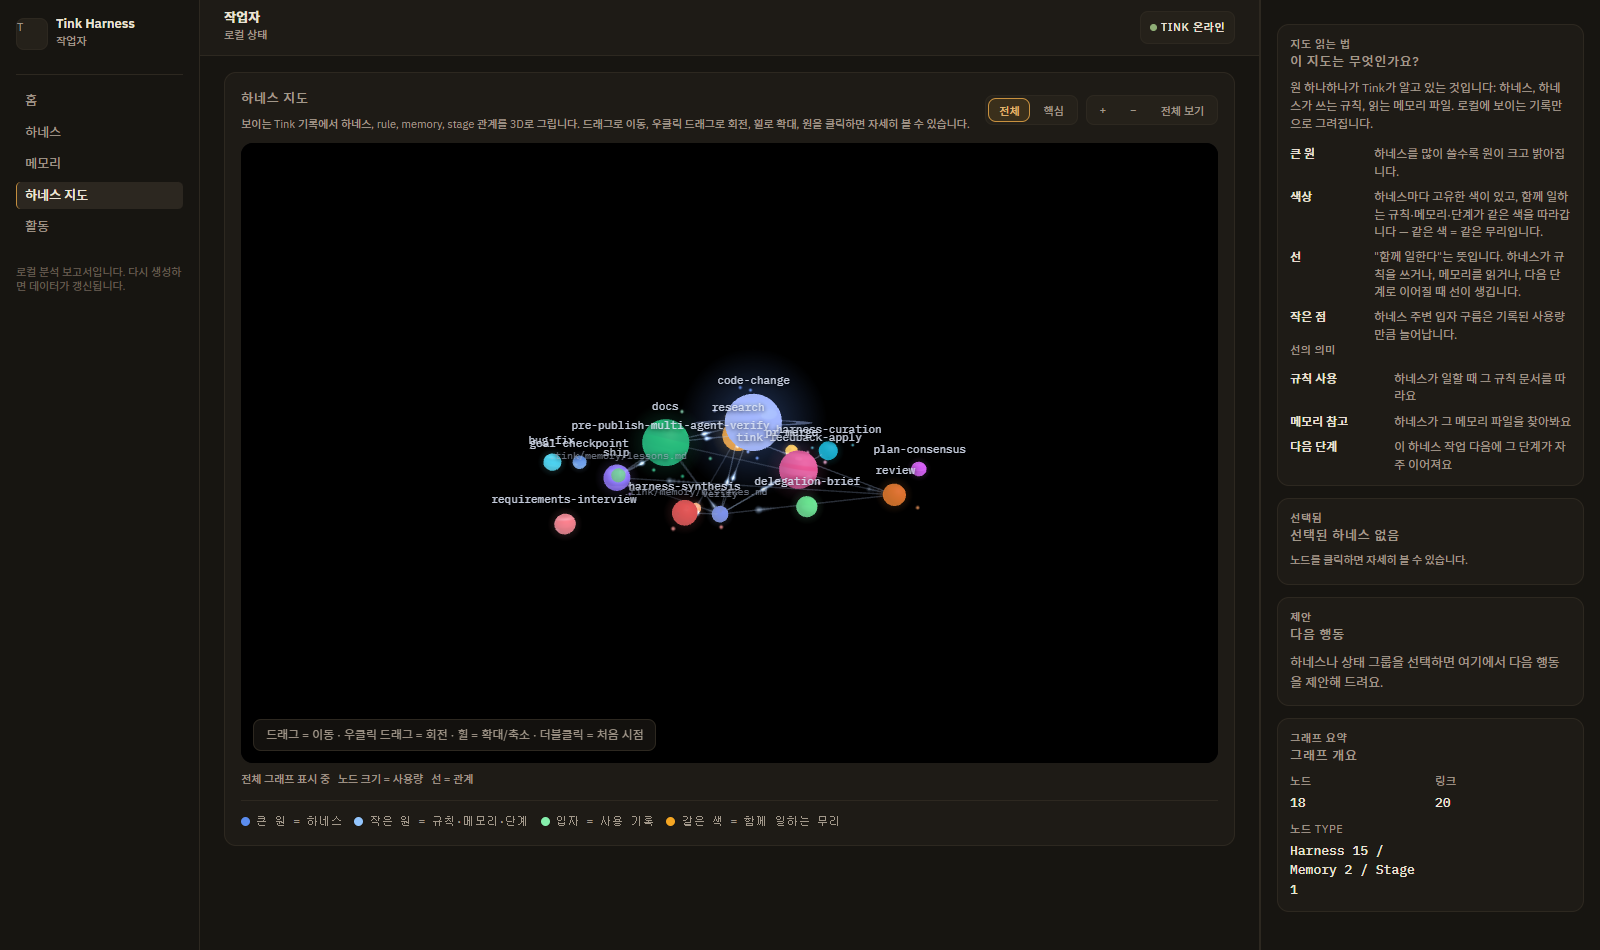
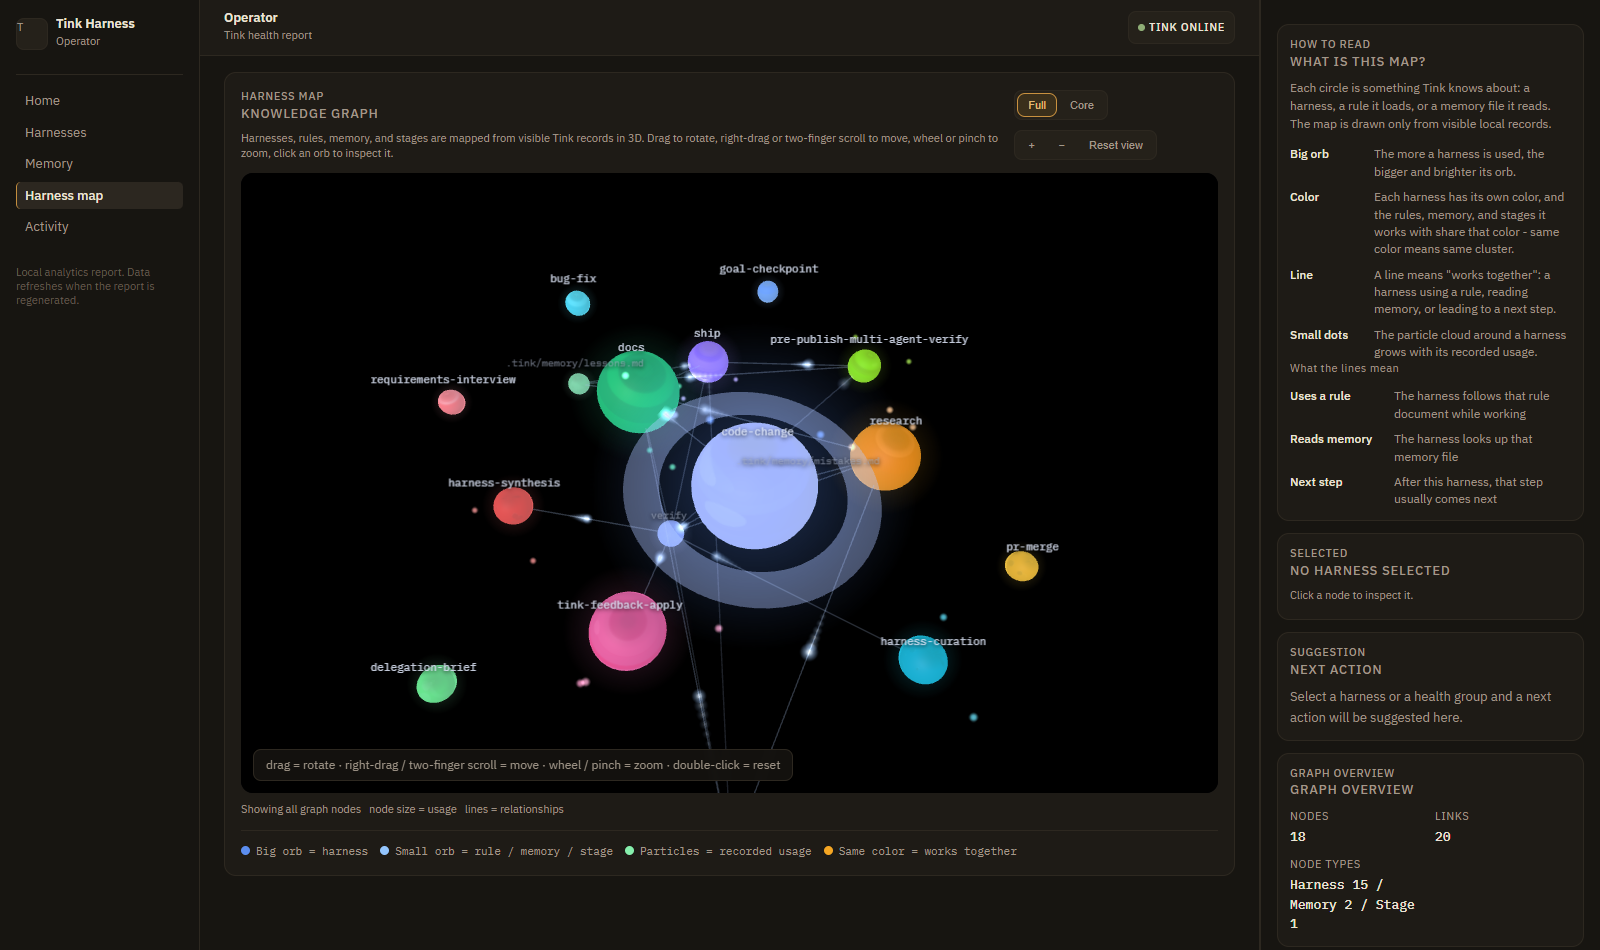
docs: README 스크린샷 — 영문 리드미는 영어 대시보드, 회전 카메라로 입체감 강화
- 영문 README용 영어 UI 대시보드 캡처(지도+하네스 카드), 한글 README는 한국어 캡처(.ko.png) 분리
- 3D 지도 캡처를 좌클릭 드래그 회전 + 줌인 상태에서 촬영해 구체들의 입체감 강화, 호버 잔상 없이 캡처
- 버전 1.9.17, CHANGELOG/VERSIONING 갱신

diff --git a/tests/test_templates.py b/tests/test_templates.py
@@ -61,7 +61,7 @@ class TemplateTests(unittest.TestCase):
         lock = json.loads((ROOT / 'package-lock.json').read_text())
         plugin = json.loads((ROOT / '.claude-plugin/plugin.json').read_text())
 
-        self.assertEqual(pkg['version'], '1.9.16')
+        self.assertEqual(pkg['version'], '1.9.17')
         self.assertEqual(lock['version'], pkg['version'])
         self.assertEqual(lock['packages']['']['version'], pkg['version'])
         self.assertEqual(plugin['version'], pkg['version'])

diff --git a/CHANGELOG.md b/CHANGELOG.md
@@ -6,6 +6,12 @@ All notable changes to Tink are tracked here.
 
 No unreleased changes yet.
 
+## [1.9.17] - 2026-06-11
+
+### Changed
+
+- README screenshots refreshed: the English README now shows an English-language dashboard, the Korean README uses Korean captures, and the 3D map shots are taken from a slightly rotated, zoomed-in camera so the orbs read with more depth.
+
 ## [1.9.16] - 2026-06-11
 
 ### Fixed

diff --git a/README.ko.md b/README.ko.md
@@ -8,7 +8,7 @@ Claude Code와 Codex를 위한 작은 하네스 레이어입니다.
 
 Tink는 지금 작업에 맞는 하네스를 고르고, 실행 상태를 보이게 만들고, 실제 사용 중 생긴 실패와 피드백으로 하네스 세트를 개선합니다.
 
-**최신 패키지:** v1.9.16 — 로컬 건강 리포트가 탭형 대시보드로 바뀌었습니다. 3D 하네스 지도, 쉬운 말 건강 요약, Claude Code와 Codex 양쪽 복사-붙여넣기 명령이 포함된 다음 행동 제안을 제공합니다. 전체 변경 이력은 [CHANGELOG](CHANGELOG.md)를 확인하세요.
+**최신 패키지:** v1.9.17 — 로컬 건강 리포트가 탭형 대시보드로 바뀌었습니다. 3D 하네스 지도, 쉬운 말 건강 요약, Claude Code와 Codex 양쪽 복사-붙여넣기 명령이 포함된 다음 행동 제안을 제공합니다. 전체 변경 이력은 [CHANGELOG](CHANGELOG.md)를 확인하세요.
 
 [English](README.md) · **한국어** · [변경 이력](CHANGELOG.md)
 
@@ -54,11 +54,11 @@ node .tink/tools/render-harness-health-report.mjs
 
 하네스와 그들이 쓰는 규칙·메모리, 그 연결을 보여주는 인터랙티브 3D 지도 — 무리마다 고유한 색을 갖고, 살아있는 관계 위로 신호가 흐릅니다:
 
-![Tink 하네스 지도 — 하네스·규칙·메모리·단계를 보여주는 인터랙티브 3D 뷰](.github/assets/dashboard-map.png)
+![Tink 하네스 지도 — 하네스·규칙·메모리·단계를 보여주는 인터랙티브 3D 뷰](.github/assets/dashboard-map.ko.png)
 
 실제 사용량 순으로 정렬된 하네스 카드 — 쉬운 말 건강 요약, 주의 점수, 승인 이력, 그리고 Claude Code·Codex 양쪽 복사용 명령이 포함된 다음 행동 제안:
 
-![사용량 순 하네스 카드와 쉬운 말 건강 요약·히스토리](.github/assets/dashboard-harnesses.png)
+![사용량 순 하네스 카드와 쉬운 말 건강 요약·히스토리](.github/assets/dashboard-harnesses.ko.png)
 
 서버도, 텔레메트리도, 숨은 캐시도 없습니다 — 제안만 준비하는 정적 로컬 페이지입니다. 재사용되는 변경은 여전히 Tink의 승인 절차를 거칩니다.
 

diff --git a/README.md b/README.md
@@ -17,14 +17,14 @@
 </p>
 
 <p>
-  <a href="https://github.com/dotoricode/tink-harness/releases/tag/v1.9.16"><img src="https://img.shields.io/github/v/release/dotoricode/tink-harness?label=release&color=2ea44f" alt="GitHub release"></a>
+  <a href="https://github.com/dotoricode/tink-harness/releases/tag/v1.9.17"><img src="https://img.shields.io/github/v/release/dotoricode/tink-harness?label=release&color=2ea44f" alt="GitHub release"></a>
   <a href="https://www.npmjs.com/package/tink-harness"><img src="https://img.shields.io/npm/v/tink-harness?label=npm&color=cb3837" alt="npm version"></a>
   <a href="https://github.com/dotoricode/tink-harness/actions/workflows/ci.yml"><img src="https://img.shields.io/github/actions/workflow/status/dotoricode/tink-harness/ci.yml?branch=main&label=ci" alt="CI"></a>
   <a href="https://github.com/dotoricode/tink-harness/blob/main/LICENSE"><img src="https://img.shields.io/github/license/dotoricode/tink-harness" alt="License"></a>
   <a href="https://github.com/dotoricode/tink-harness/stargazers"><img src="https://img.shields.io/github/stars/dotoricode/tink-harness?style=social" alt="GitHub stars"></a>
 </p>
 
-<p><strong>Latest package:</strong> v1.9.16 - The local health report is now a tabbed dashboard with a 3D harness map, plain-language health summaries, and next-action suggestions with copy-paste commands for both Claude Code and Codex. See <a href="CHANGELOG.md">CHANGELOG</a> for release history.</p>
+<p><strong>Latest package:</strong> v1.9.17 - The local health report is now a tabbed dashboard with a 3D harness map, plain-language health summaries, and next-action suggestions with copy-paste commands for both Claude Code and Codex. See <a href="CHANGELOG.md">CHANGELOG</a> for release history.</p>
 
 **English** · [한국어](README.ko.md) · [Changelog](CHANGELOG.md)
 

diff --git a/VERSIONING.md b/VERSIONING.md
@@ -1,6 +1,6 @@
 # Versioning
 
-Current version: `1.9.16`
+Current version: `1.9.17`
 
 Tink follows semver from `1.0.0` onward.
 